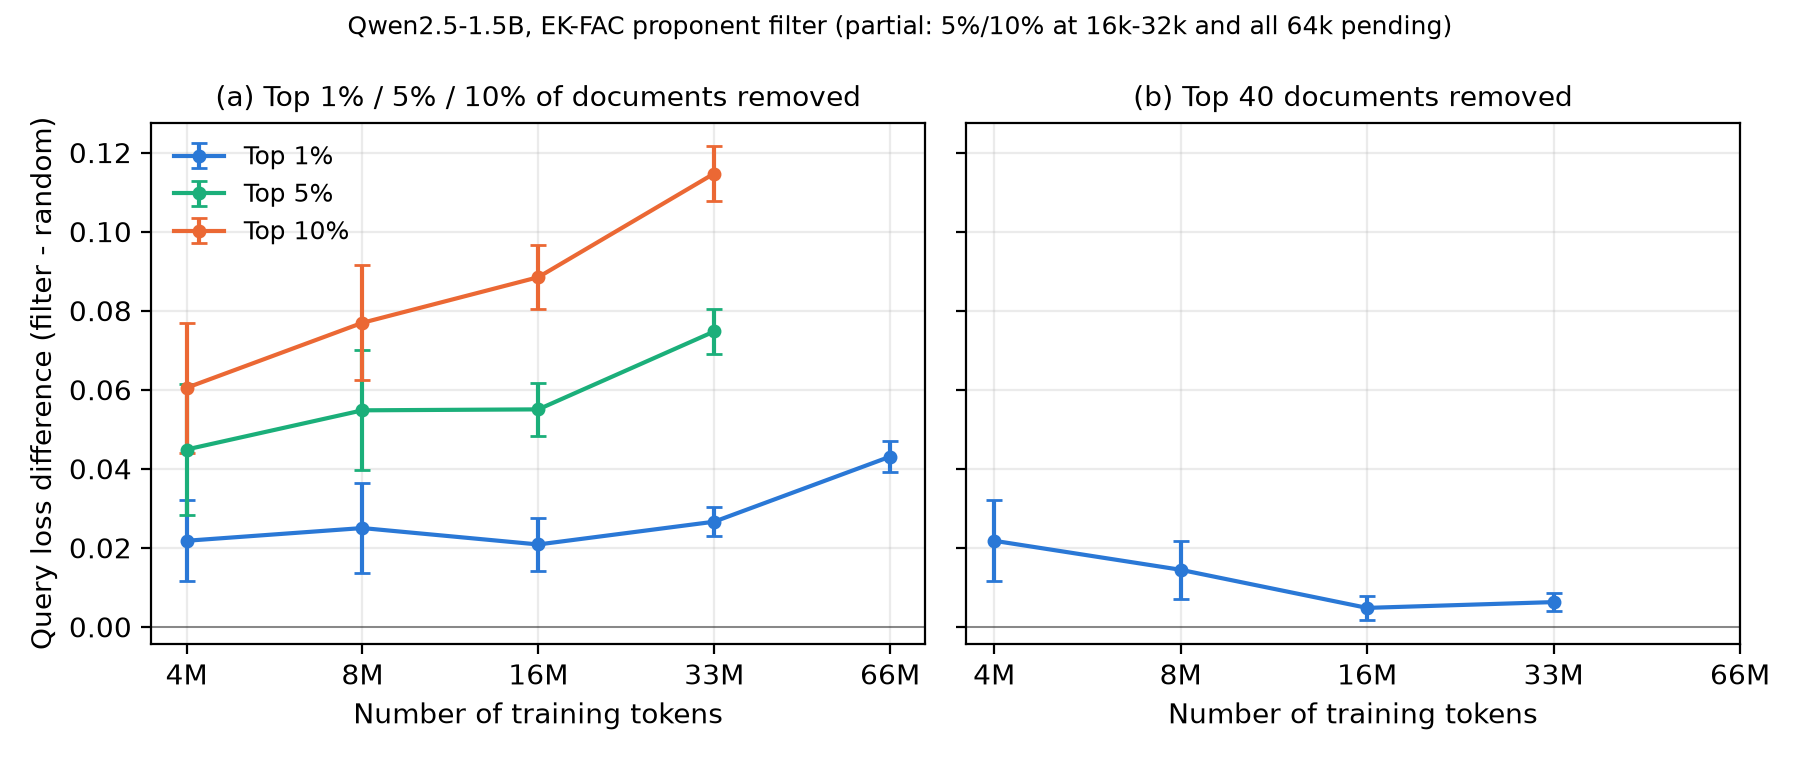
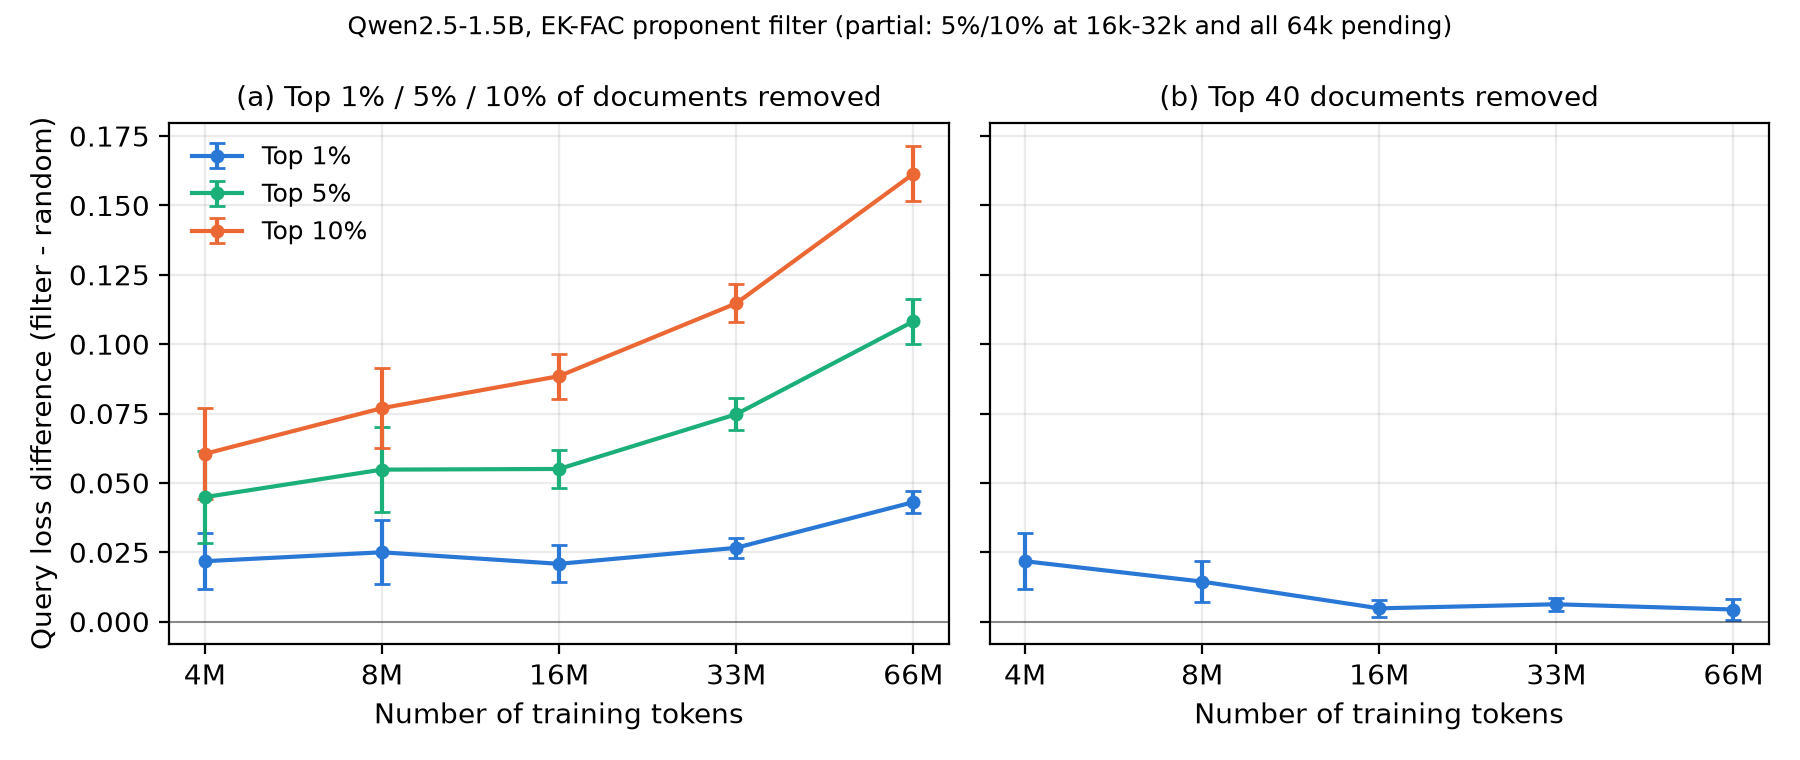
qwen 64k plan A tooling + final held-out figure
- gate_hessian.py: validate an EK-FAC Hessian dir (row-sharded factors reassembled; finiteness, symmetry,
  eigenvalue positivity, per-module trace ratio vs a reference Hessian)
- cmp_scores.py: compare an in-progress/final score matrix against a smaller-N run on the aligned doc prefix
- audit_selection.py: pre-launch audit of one-query filter shards (query row == score column, slice == full
  matrix column, higher_is_better, selection == bergson's top-k on the nonzero pool, overlap with the
  reference N)
- gate_q64_A.sh / launch_q64_A.sh / assemble_and_merge_q64.sh: gate chain, free-pair launcher (re-runnable,
  uid-1000 nodes only), and bank assembly + bank_merge + shard merge for the num_subsets-0 plan
- figures: held-out in-vs-out with all N through 256k; qwen fraction ladder through 64k

Claude-Session: https://claude.ai/code/session_0167XKnE2yoCE162n3jHvxC1

diff --git a/scripts/audit_selection.py b/scripts/audit_selection.py
@@ -1,0 +1,74 @@
+"""Gate-time audit for one-query filter shards. For every shard config:
+  (1) the query slice's row is byte-identical to row a of the full 20-query set (row a <-> score column a);
+  (2) the score slice equals column a of the full score matrix and its config says higher_is_better: true;
+  (3) the removed set bergson will pick (top-k of the nonzero-score pool, k = round(frac * pool)) equals the
+      top-k of the full matrix for that query;
+  (4) that selection overlaps >= 60% with the reference-N selection for the same query on the aligned prefix.
+Exit 1 on any failure. Nothing here spends a retrain.
+Env overrides (defaults = qwen 64k plan A): EXP, SCORES (full scores dir), REF_SCORES, REF_N, N,
+CFGS ("prefix:frac,prefix:frac"), QSET (full query set)."""
+import json, os, sys, yaml, numpy as np
+from pathlib import Path
+from datasets import load_from_disk
+
+E = Path("/mnt/ssd-2/lucia/paper_runs/experiments"); D = Path("/mnt/ssd-2/lucia/datasets_local")
+exp = Path(os.environ.get("EXP", E / "qwen15b_64k_bs256"))
+scores_dir = Path(os.environ.get("SCORES", exp / "ekfac_scores_64k/scores"))
+ref_dir = Path(os.environ.get("REF_SCORES", E / "qwen15b_32k_bs256/ekfac_scores/scores"))
+REF_N = int(os.environ.get("REF_N", 32000)); N_EXPECT = int(os.environ.get("N", 64000))
+CFGS = [(p, float(f)) for p, f in (x.split(":") for x in os.environ.get("CFGS", "filter_proponents_ekfac:0.01,filter_top40_ekfac:0.000625").split(","))]
+full_q = load_from_disk(os.environ.get("QSET", str(D / "query_20_qwen.hf"))); assert len(full_q) == 20
+
+
+def load(d):
+    info = json.load(open(d / "info.json")); dd = info["dtype"]
+    dt = np.dtype({"names": dd["names"], "formats": [np.dtype(f) for f in dd["formats"]], "offsets": dd["offsets"], "itemsize": dd["itemsize"]})
+    mm = np.memmap(d / "scores.bin", dtype=dt, mode="r", shape=(info["num_rows"],))
+    S = np.stack([np.asarray(mm[f"score_{j}"], dtype=np.float64) for j in range(info["num_scores"])])
+    W = np.stack([np.asarray(mm[f"written_{j}"]) for j in range(info["num_scores"])]).astype(bool)
+    return S, W
+
+
+def bergson_selection(col, frac):
+    """Mirror validate.py: pool = docs with nonzero score, k = max(1, round(frac * pool)), top-k by score (higher is better)."""
+    valid = np.nonzero(col != 0)[0]
+    k = max(1, round(frac * len(valid)))
+    order = valid[np.argsort(-col[valid], kind="stable")]
+    return set(order[:k].tolist()), k
+
+
+F, W = load(scores_dir); assert W.all(), f"scores not fully written: {W.mean():.4f}"
+SR, WR = load(ref_dir); assert WR.all()
+N = F.shape[1]; assert F.shape == (20, N_EXPECT), F.shape
+fails = 0
+for prefix, frac in CFGS:
+    for a in range(20):
+        p = exp / f"{prefix}_q{a}_{a+1}.yaml"
+        if not p.exists():
+            continue
+        cfg = yaml.safe_load(open(p))["steps"][0]["validate"]; problems = []
+        if cfg["subset_fraction"] != frac or cfg["num_subsets"] != 0:
+            problems.append("config fields")
+        qs = load_from_disk(cfg["query"]["dataset"])
+        if len(qs) != 1 or qs[0]["input_ids"] != full_q[a]["input_ids"]:
+            problems.append("query slice is not row a of the full set")
+        sl, wl = load(Path(cfg["scores"]))
+        if sl.shape != (1, N) or not wl.all() or not np.array_equal(sl[0], F[a]):
+            problems.append("score slice != column a")
+        try:
+            hib = yaml.safe_load(open(Path(cfg["scores"]) / "config.yaml"))["steps"][0]["score"]["score_cfg"]["higher_is_better"]
+        except Exception:
+            hib = None
+        if hib is not True:
+            problems.append(f"higher_is_better={hib!r}")
+        sel, k = bergson_selection(sl[0], frac); full_sel, _ = bergson_selection(F[a], frac)
+        if sel != full_sel:
+            problems.append("selection from slice != from full matrix")
+        kr = max(1, round(frac * REF_N))
+        sref = set(np.argsort(-SR[a])[:kr].tolist()); sal = set(np.argsort(-F[a][:REF_N])[:kr].tolist()); ov = len(sref & sal) / kr
+        if ov < 0.6:
+            problems.append(f"overlap with ref selection only {ov:.2f}")
+        fails += bool(problems)
+        print(f"{prefix[-14:]} q{a:2d} k={k:4d} overlap_ref={ov:.2f} {'OK' if not problems else 'FAIL: ' + '; '.join(problems)}")
+print(f"SELECTION AUDIT: {'PASS' if fails == 0 else f'FAIL ({fails} shards)'}")
+sys.exit(1 if fails else 0)

diff --git a/scripts/gate_hessian.py b/scripts/gate_hessian.py
@@ -1,0 +1,47 @@
+"""Validate a bergson EK-FAC Hessian dir (kfac or kfac.part), optionally against a reference.
+Factors are ROW-SHARDED across rank files (shard_i holds rows i*d/R..(i+1)*d/R of every module);
+reassemble by concatenating along dim 0. usage: gate_hessian.py <kfac_dir> [<ref_kfac_dir>]"""
+import sys,os,glob,torch,numpy as np
+from safetensors import safe_open
+H=sys.argv[1]; R=sys.argv[2] if len(sys.argv)>2 else None
+def tp(d):
+    t=torch.load(f"{d}/total_processed.pt",map_location="cpu",weights_only=False); return float(t.item() if hasattr(t,"item") else t)
+def modules(d,kind):
+    parts={}
+    for p in sorted(glob.glob(f"{d}/{kind}/shard_*.safetensors"),key=lambda s:int(s.split("_")[-1].split(".")[0])):
+        with safe_open(p,"pt") as f:
+            for k in f.keys(): parts.setdefault(k,[]).append(f.get_tensor(k).float())
+    return parts
+fail=[]
+n_h=tp(H); print(f"total_processed: {n_h:.0f}" + (f" (ref {tp(R):.0f}, ratio {n_h/tp(R):.2f})" if R else ""))
+for kind in ("activation_sharded","gradient_sharded","eigenvalue_sharded","eigenvalue_correction_sharded","factor_eig_a","factor_eig_g"):
+    P=modules(H,kind)
+    if not P: print(f"{kind}: absent"); continue
+    nshard=len(next(iter(P.values()))); bad={"nonfinite":0,"allzero":0,"asym":0,"negdiag":0,"nonpos":0,"replica_mismatch":0}; stat={}
+    for k,parts in P.items():
+        if kind.startswith("factor_eig"):
+            v=parts[0]
+            if any(not torch.equal(v,q) for q in parts[1:]): bad["replica_mismatch"]+=1
+        else: v=torch.cat(parts,0)
+        if not torch.isfinite(v).all(): bad["nonfinite"]+=1
+        if v.abs().max()==0: bad["allzero"]+=1
+        if kind in ("activation_sharded","gradient_sharded"):
+            if v.shape[0]!=v.shape[1]: bad["asym"]+=1
+            else:
+                if (v-v.T).abs().max()>1e-3*v.abs().max(): bad["asym"]+=1
+                if torch.diagonal(v).min()<0: bad["negdiag"]+=1
+                stat[k]=torch.diagonal(v).sum().item()/n_h
+        else:
+            if v.min()<=0: bad["nonpos"]+=1
+            stat[k]=v.mean().item()
+    print(f"{kind}: modules={len(P)} shards={nshard} "+" ".join(f"{a}={b}" for a,b in bad.items()))
+    if any(bad.values()): fail.append(kind)
+    if R and glob.glob(f"{R}/{kind}/shard_*.safetensors"):
+        Q=modules(R,kind); n_r=tp(R); rs=[]
+        for k,parts in Q.items():
+            v=parts[0] if kind.startswith("factor_eig") else torch.cat(parts,0)
+            r=torch.diagonal(v).sum().item()/n_r if kind in ("activation_sharded","gradient_sharded") else v.mean().item()
+            if k in stat and r: rs.append(stat[k]/r)
+        rs=np.array(rs); print(f"   vs ref (per-module, count-normalised): common={len(rs)}/{len(Q)} ratio med={np.median(rs):.2f} p5={np.percentile(rs,5):.2f} p95={np.percentile(rs,95):.2f} min={rs.min():.2f} max={rs.max():.2f}")
+        if len(rs)!=len(Q) or rs.max()>20 or rs.min()<0.05: fail.append(kind+":ref")
+print("HESSIAN GATE:", ("FAIL "+str(fail)) if fail else "PASS")

diff --git a/scripts/cmp_scores.py b/scripts/cmp_scores.py
@@ -1,0 +1,22 @@
+"""Compare in-progress 64k scores (scores.part or scores) against 32k scores on the index-aligned first 32000 docs."""
+import json,sys,numpy as np
+from pathlib import Path
+E=Path("/mnt/ssd-2/lucia/paper_runs/experiments")
+def load(d):
+    info=json.load(open(d/"info.json")); dd=info["dtype"]
+    dt=np.dtype({"names":dd["names"],"formats":[np.dtype(f) for f in dd["formats"]],"offsets":dd["offsets"],"itemsize":dd["itemsize"]})
+    mm=np.memmap(d/"scores.bin",dtype=dt,mode="r",shape=(info["num_rows"],))
+    S=np.stack([np.asarray(mm[f"score_{j}"],dtype=np.float64) for j in range(info["num_scores"])])
+    W=np.stack([np.asarray(mm[f"written_{j}"]) for j in range(info["num_scores"])]).astype(bool)
+    return S,W
+d64=E/"qwen15b_64k_bs256/ekfac_scores_64k"; p=d64/"scores" if (d64/"scores/scores.bin").exists() else d64/"scores.part"
+S64,W64=load(p); S32,W32=load(E/"qwen15b_32k_bs256/ekfac_scores/scores")
+print(f"64k source: {p.name} shape {S64.shape} written frac per query: {np.round(W64.mean(1),2).tolist()}")
+def rank(a): return np.argsort(np.argsort(a))
+for q in range(20):
+    m=W64[q,:32000]&W32[q,:32000]
+    if m.sum()<1000: print(f"q{q}: only {m.sum()} aligned docs written yet"); continue
+    a,b=S64[q,:32000][m],S32[q,:32000][m]
+    rho=np.corrcoef(rank(a),rank(b))[0,1]; k=max(40,m.sum()//100)
+    ta=set(np.argsort(-a)[:k]); tb=set(np.argsort(-b)[:k])
+    print(f"q{q}: n={m.sum()} spearman={rho:.3f} pearson={np.corrcoef(a,b)[0,1]:.3f} top-{k} overlap={len(ta&tb)/k:.2f} std64={a.std():.3g} std32={b.std():.3g} finite={np.isfinite(a).all()}")
